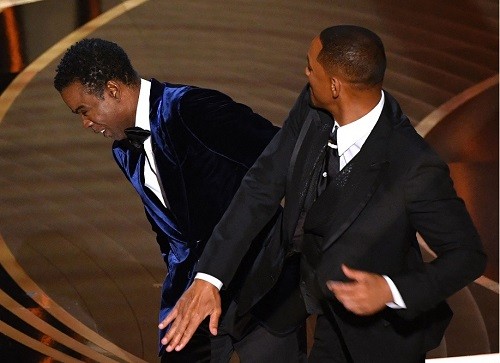
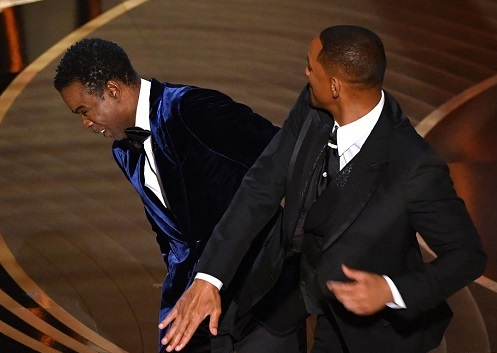
Fixed size and position issues with willslap.

diff --git a/commands/fun/willslap.js b/commands/fun/willslap.js
@@ -3,8 +3,8 @@ const { SlashCommandBuilder } = require('@discordjs/builders');
 const path = require('path');
 const { createCanvas, loadImage } = require('canvas');
 
-const width = 500;
-const height = 250;
+const width = 497;
+const height = 353;
 
 const canvas = createCanvas(width, height);
 const context = canvas.getContext('2d');
@@ -30,8 +30,8 @@ module.exports = {
         const background = await loadImage(imagePath);
         context.drawImage(background, 0, 0, canvas.width, canvas.height);
 
-        context.drawImage(willFace, 300, 20, 64, 64);
-        context.drawImage(chrisFace, 70, 30, 64, 64);
+        context.drawImage(willFace, 300, 35, 64, 64);
+        context.drawImage(chrisFace, 70, 60, 64, 64);
 
         const buffer = canvas.toBuffer();
         const attachment = new Discord.MessageAttachment(buffer, 'willslap.png');
